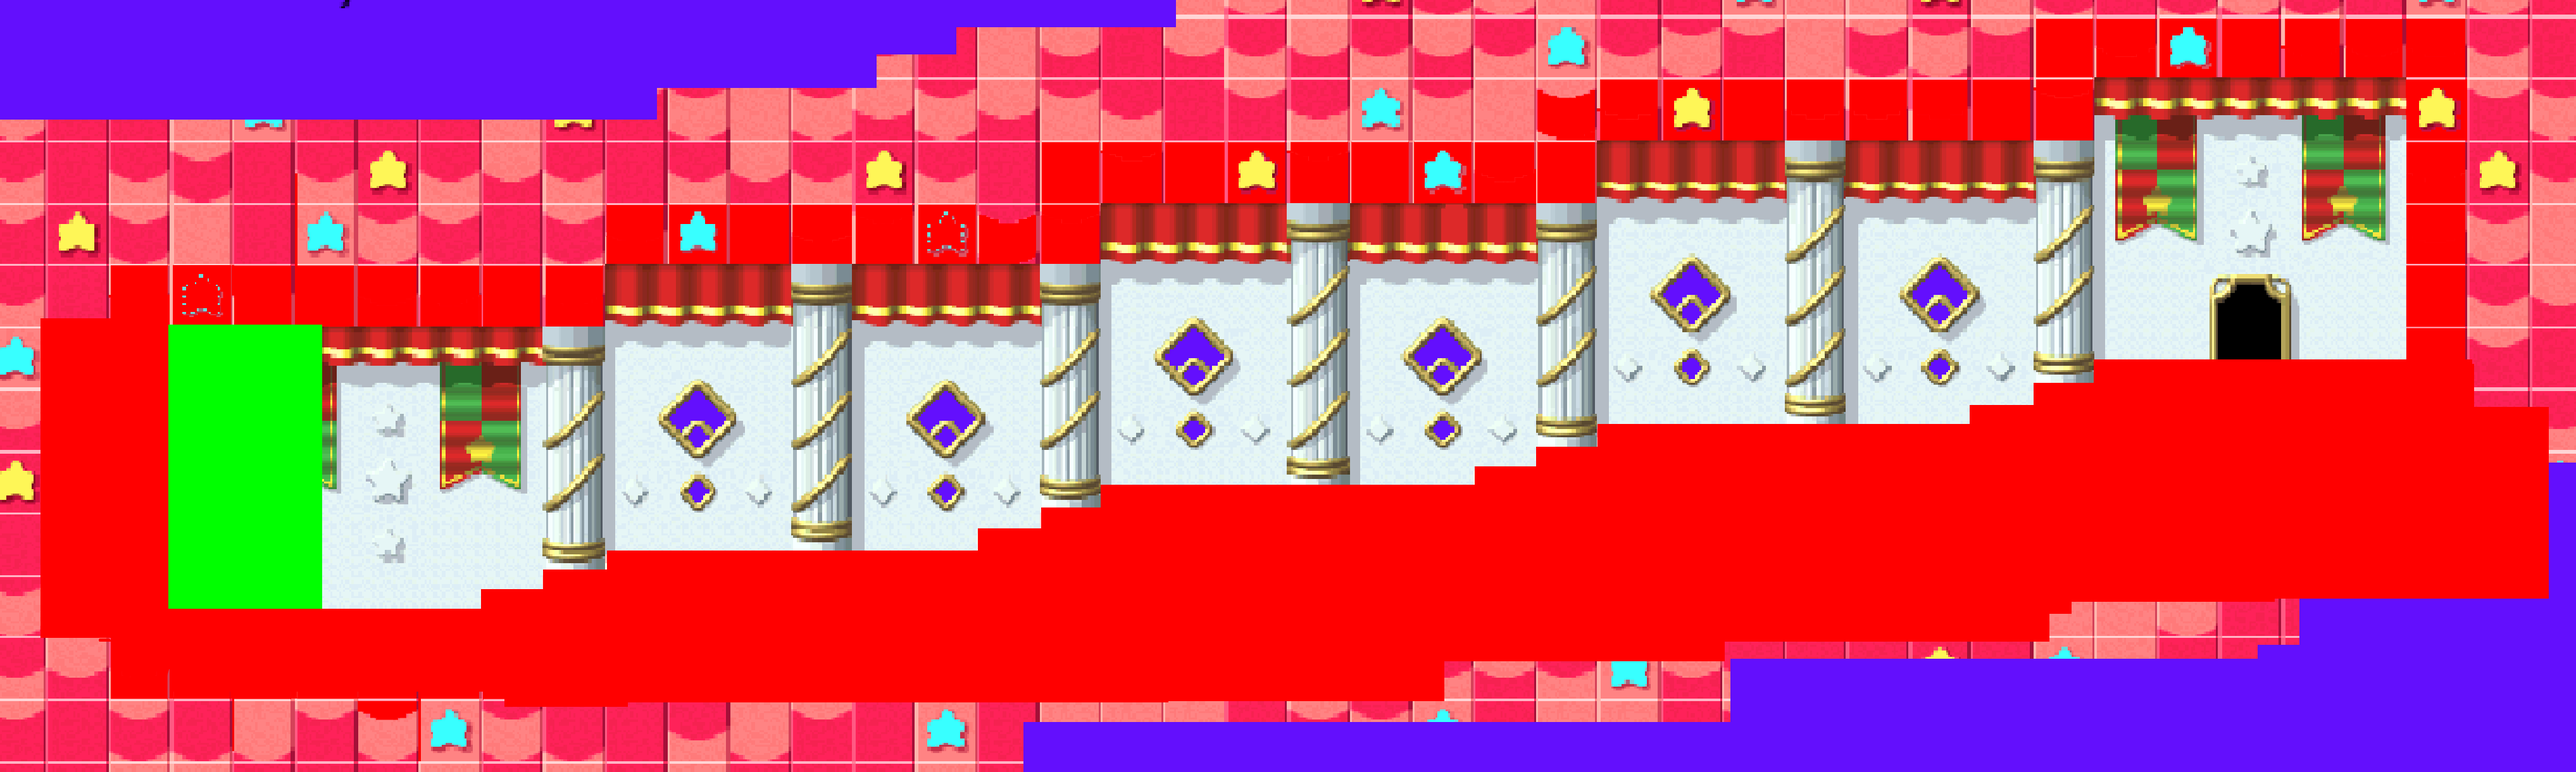
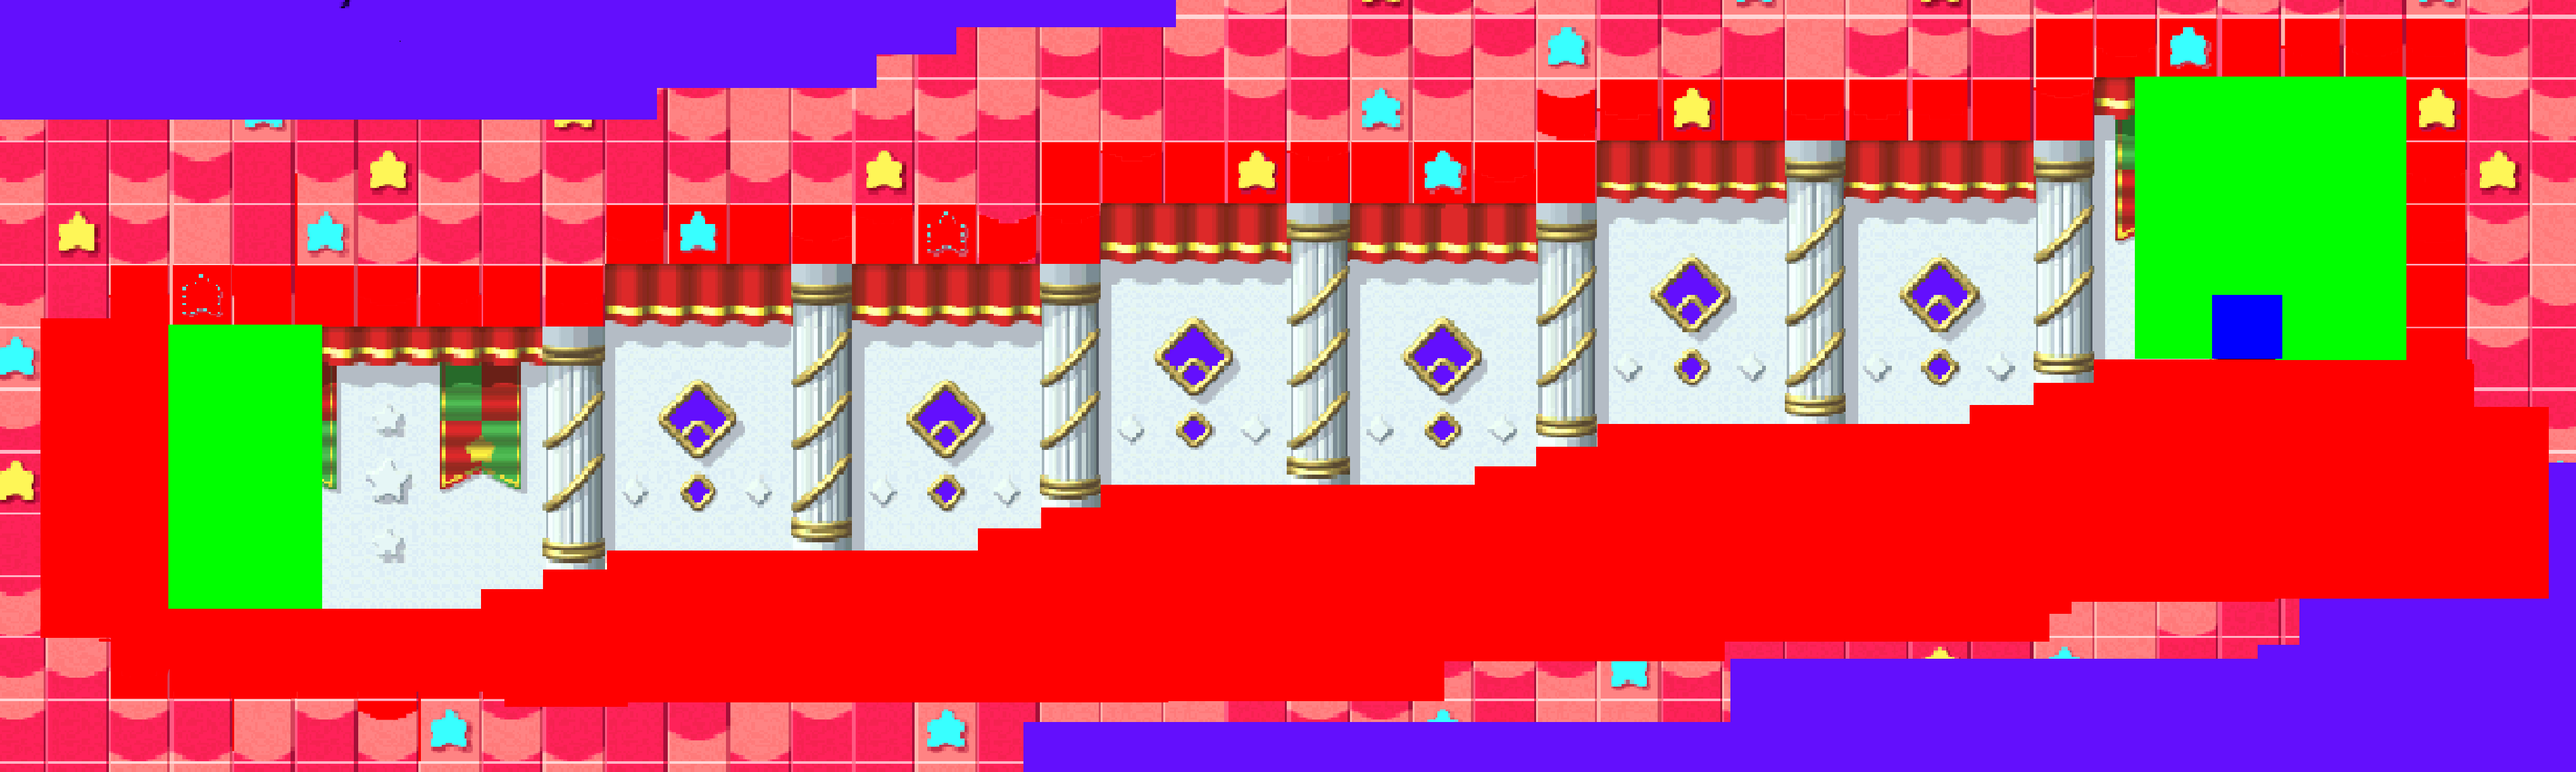
양쪽 벽 카메라 설정 완

Changed region(s): [[0.8113, 0.0934, 0.9361, 0.4672]]

diff --git a/Api_Project/Kirby_Game/Kirby_Player.cpp b/Api_Project/Kirby_Game/Kirby_Player.cpp
@@ -468,12 +468,13 @@ void AKirby_Player::Fly(float _DeltaTime)
 	}
 	CheckPos.Y -= checkposvalue;
 	CarCheckPos.Y -= checkposvalue;
-	Color8Bit Color1 = ActorCommon::ColMapImage->GetColor(CheckPos.iX(), CheckPos.iY(), Color8Bit::RedA);
-	Color8Bit Color2 = ActorCommon::ColMapImage->GetColor(CarCheckPos.iX(), CarCheckPos.iY(), Color8Bit::GreenA);
-	if (Color1 != Color8Bit(255, 0, 0, 0))
+	Color8Bit ColorR = ActorCommon::ColMapImage->GetColor(CheckPos.iX(), CheckPos.iY(), Color8Bit::RedA);
+	Color8Bit ColorG = ActorCommon::ColMapImage->GetColor(CarCheckPos.iX(), CarCheckPos.iY(), Color8Bit::GreenA);
+	Color8Bit ColorB = ActorCommon::ColMapImage->GetColor(CarCheckPos.iX(), CarCheckPos.iY(), Color8Bit::BlueA);
+	if (ColorR != Color8Bit(255, 0, 0, 0))
 	{
 		AddActorLocation(MovePos);
-		if (Color2 != Color8Bit(0, 255, 0, 0))
+		if (ColorG != Color8Bit(0, 255, 0, 0) && ColorB != Color8Bit(0, 0, 255, 0))
 		{
 
 
@@ -552,24 +553,25 @@ void AKirby_Player::Walk(float _DeltaTime)
 	}
 	CheckPos.Y -= checkposvalue;
 	CarCheckPos.Y -= checkposvalue;
-	Color8Bit Color1 = ActorCommon::ColMapImage->GetColor(CheckPos.iX(), CheckPos.iY(), Color8Bit::RedA);
-	Color8Bit Color2 = ActorCommon::ColMapImage->GetColor(CarCheckPos.iX(), CarCheckPos.iY(), Color8Bit::GreenA);
-	if (Color1 != Color8Bit(255, 0, 0, 0))
+	Color8Bit ColorR = ActorCommon::ColMapImage->GetColor(CheckPos.iX(), CheckPos.iY(), Color8Bit::RedA);
+	Color8Bit ColorG = ActorCommon::ColMapImage->GetColor(CarCheckPos.iX(), CarCheckPos.iY(), Color8Bit::GreenA);
+	Color8Bit ColorB = ActorCommon::ColMapImage->GetColor(CarCheckPos.iX(), CarCheckPos.iY(), Color8Bit::BlueA);
+	if (ColorR != Color8Bit(255, 0, 0, 0))
 	{
 		AddActorLocation(MovePos);
-		if (Color2 != Color8Bit(0, 255, 0, 0))
+		if (ColorG != Color8Bit(0, 255, 0, 0) && ColorB != Color8Bit(0, 0, 255, 0))
 		{
-			
-			
-			GetWorld()->AddCameraPos(MovePos+Start);
-			
-			
+
+
+			GetWorld()->AddCameraPos(MovePos + Start);
+
+
 			Start = FVector::Zero;
-			
+
 		}
 		else {
 			Start += MovePos;
-		
+
 		}
 	}
 }
@@ -619,12 +621,13 @@ void AKirby_Player::Run(float _DeltaTime)
 	}
 	CheckPos.Y -= checkposvalue;
 	CarCheckPos.Y -= checkposvalue;
-	Color8Bit Color1 = ActorCommon::ColMapImage->GetColor(CheckPos.iX(), CheckPos.iY(), Color8Bit::RedA);
-	Color8Bit Color2 = ActorCommon::ColMapImage->GetColor(CarCheckPos.iX(), CarCheckPos.iY(), Color8Bit::GreenA);
-	if (Color1 != Color8Bit(255, 0, 0, 0))
+	Color8Bit ColorR = ActorCommon::ColMapImage->GetColor(CheckPos.iX(), CheckPos.iY(), Color8Bit::RedA);
+	Color8Bit ColorG = ActorCommon::ColMapImage->GetColor(CarCheckPos.iX(), CarCheckPos.iY(), Color8Bit::GreenA);
+	Color8Bit ColorB = ActorCommon::ColMapImage->GetColor(CarCheckPos.iX(), CarCheckPos.iY(), Color8Bit::BlueA);
+	if (ColorR != Color8Bit(255, 0, 0, 0))
 	{
 		AddActorLocation(MovePos);
-		if (Color2 != Color8Bit(0, 255, 0, 0))
+		if (ColorG != Color8Bit(0, 255, 0, 0) && ColorB != Color8Bit(0, 0, 255, 0))
 		{
 
 
